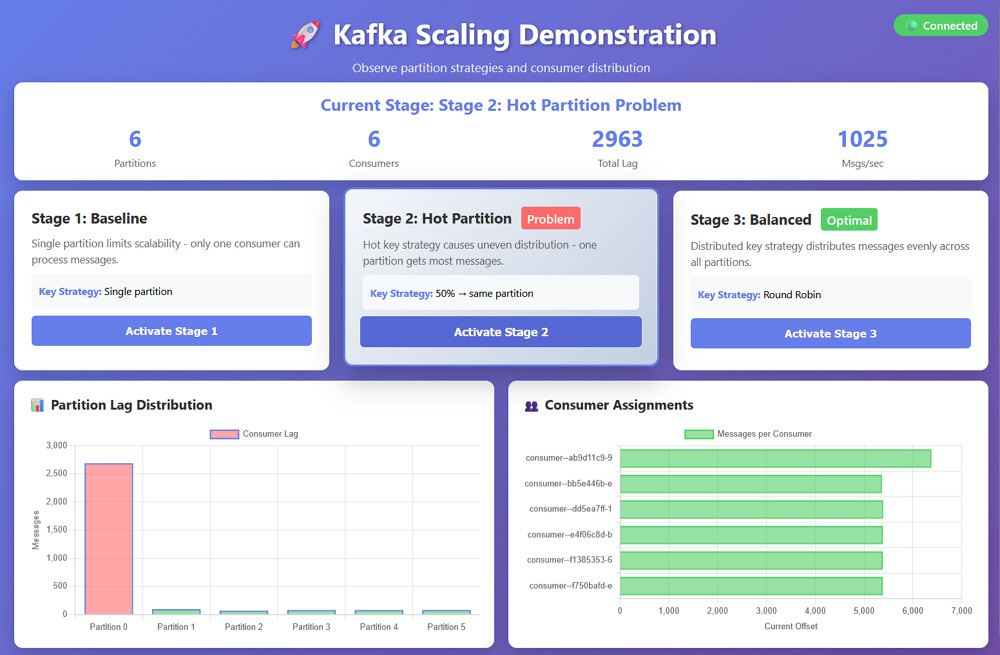
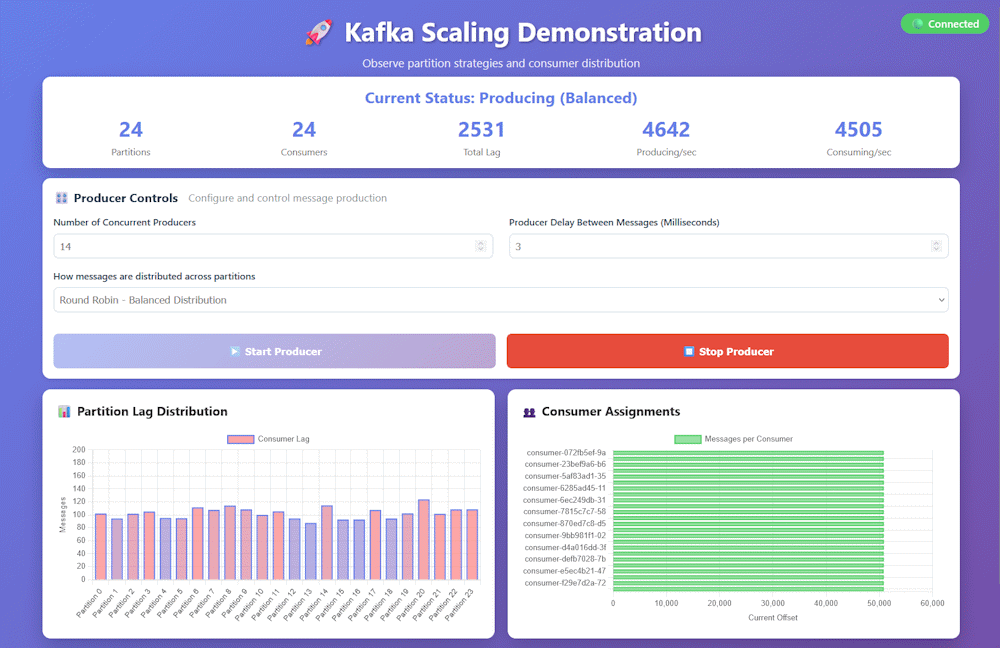
Cleanup kafka.css, update md files, new screenshot.

diff --git a/dashboard-service/public/css/kafka.css b/dashboard-service/public/css/kafka.css
@@ -1,3 +1,4 @@
+/* Reset & Base Styles */
 * {
     margin: 0;
     padding: 0;
@@ -54,113 +55,6 @@ h1 {
     color: white;
 }
 
-.stage-controls {
-    display: grid;
-    grid-template-columns: repeat(auto-fit, minmax(300px, 1fr));
-    gap: 20px;
-    margin-bottom: 15px;
-}
-
-.stage-card {
-    background: white;
-    border-radius: 12px;
-    padding: 25px;
-    box-shadow: 0 10px 30px rgba(0,0,0,0.2);
-    transition: transform 0.2s, box-shadow 0.2s;
-}
-
-.stage-card:hover {
-    transform: translateY(-5px);
-    box-shadow: 0 15px 40px rgba(0,0,0,0.3);
-}
-
-.stage-card.active {
-    border: 3px solid #667eea;
-    background: linear-gradient(135deg, #f5f7fa 0%, #c3cfe2 100%);
-}
-
-.stage-card h3 {
-    color: #333;
-    margin-bottom: 10px;
-    font-size: 1.3em;
-}
-
-.stage-description {
-    color: #666;
-    margin-bottom: 10px;
-    font-size: 0.95em;
-    line-height: 1.5;
-}
-
-.stage-details {
-    background: #f8f9fa;
-    padding: 10px;
-    border-radius: 6px;
-    margin-bottom: 10px;
-    font-size: 0.9em;
-}
-
-.stage-details div {
-    margin: 5px 0;
-}
-
-.stage-details strong {
-    color: #667eea;
-}
-
-button {
-    background: #667eea;
-    color: white;
-    border: none;
-    padding: 12px 24px;
-    border-radius: 6px;
-    cursor: pointer;
-    font-size: 1em;
-    font-weight: 600;
-    transition: background 0.3s, transform 0.1s;
-    width: 100%;
-}
-
-button:hover {
-    background: #5568d3;
-    transform: scale(1.02);
-}
-
-button:active {
-    transform: scale(0.98);
-}
-
-button:disabled {
-    background: #ccc;
-    cursor: not-allowed;
-    transform: none;
-}
-
-.metrics-grid {
-    display: grid;
-    grid-template-columns: repeat(auto-fit, minmax(400px, 1fr));
-    gap: 20px;
-    margin-bottom: 20px;
-}
-
-.metric-card {
-    background: white;
-    border-radius: 12px;
-    padding: 20px;
-    box-shadow: 0 10px 30px rgba(0,0,0,0.2);
-}
-
-.metric-card h3 {
-    color: #333;
-    margin-bottom: 15px;
-    font-size: 1.2em;
-}
-
-.chart-container {
-    position: relative;
-    height: 300px;
-}
-
 .status-banner {
     background: white;
     border-radius: 12px;
@@ -197,54 +91,6 @@ button:disabled {
     color: #666;
     font-size: 0.9em;
     margin-top: 5px;
-}
-
-.badge {
-    display: inline-block;
-    padding: 4px 8px;
-    border-radius: 4px;
-    font-size: 0.85em;
-    font-weight: 600;
-    margin-left: 8px;
-}
-
-.badge-hot {
-    background: #ff6b6b;
-    color: white;
-}
-
-.badge-balanced {
-    background: #51cf66;
-    color: white;
-}
-
-.logs-container {
-    background: #1e1e1e;
-    border-radius: 12px;
-    padding: 15px;
-    box-shadow: 0 10px 30px rgba(0,0,0,0.2);
-    max-height: 300px;
-    overflow-y: auto;
-}
-
-.log-entry {
-    color: #d4d4d4;
-    font-family: 'Courier New', monospace;
-    font-size: 0.9em;
-    margin: 5px 0;
-    padding: 5px;
-    border-left: 3px solid #667eea;
-    padding-left: 10px;
-}
-
-.log-entry.warning {
-    border-left-color: #ffa500;
-    color: #ffa500;
-}
-
-.log-entry.success {
-    border-left-color: #51cf66;
-    color: #51cf66;
 }
 
 .producer-controls {
@@ -383,6 +229,65 @@ button:disabled {
     background: #f8d7da;
     color: #721c24;
     border: 1px solid #f5c6cb;
+}
+
+.metrics-grid {
+    display: grid;
+    grid-template-columns: repeat(auto-fit, minmax(400px, 1fr));
+    gap: 20px;
+    margin-bottom: 20px;
+}
+
+.metric-card {
+    background: white;
+    border-radius: 12px;
+    padding: 20px;
+    box-shadow: 0 10px 30px rgba(0,0,0,0.2);
+}
+
+.metric-card h3 {
+    color: #333;
+    margin-bottom: 15px;
+    font-size: 1.2em;
+}
+
+.chart-container {
+    position: relative;
+    height: 300px;
+}
+
+.logs-container {
+    background: #1e1e1e;
+    border-radius: 12px;
+    padding: 15px;
+    box-shadow: 0 10px 30px rgba(0,0,0,0.2);
+    max-height: 300px;
+    overflow-y: auto;
+}
+
+.log-entry {
+    color: #d4d4d4;
+    font-family: 'Courier New', monospace;
+    font-size: 0.9em;
+    margin: 5px 0;
+    padding: 5px;
+    border-left: 3px solid #667eea;
+    padding-left: 10px;
+}
+
+.log-entry.info {
+    border-left-color: #667eea;
+    color: #667eea;
+}
+
+.log-entry.warning {
+    border-left-color: #ffa500;
+    color: #ffa500;
+}
+
+.log-entry.success {
+    border-left-color: #51cf66;
+    color: #51cf66;
 }
 
 @media (max-width: 768px) {

diff --git a/dashboard-service/server.js b/dashboard-service/server.js
@@ -170,7 +170,7 @@ async function collectMetrics() {
 // Calculate message rates based on offset changes with smoothing
 let previousOffsets = {};
 let rateHistory = { producer: [], consumer: [] };
-const RATE_HISTORY_SIZE = 5; // Number of samples to average
+const RATE_HISTORY_SIZE = 15; // Number of samples to average
 
 function calculateMessageRates(partitions) {
     const currentTime = Date.now();

diff --git a/dashboard-service/public/index.html b/dashboard-service/public/index.html
@@ -357,6 +357,7 @@
             const statusEl = document.getElementById('producerStatus');
             statusEl.textContent = message;
             statusEl.className = `status-message ${type}`;
+			statusEl.style.display = '';
             
             // Auto-hide after 5 seconds
             setTimeout(() => {

diff --git a/README.md b/README.md
@@ -18,7 +18,6 @@ Also includes standard kafka monitor @ http://localhost:8080
 To change settings, stop the containers (**docker compose down -v**) then edit these settings in docker-compose.yml:
 
 ### Producer
-- **MILLISECONDS_BETWEEN_MESSAGES**: Controls the delay between messages, defaults to 1
 - **NUMBER_OF_PARTITIONS**: How many partitions to use for the topic, defaults to 6
 
 ### Consumer
@@ -27,31 +26,36 @@ To change settings, stop the containers (**docker compose down -v**) then edit t
 
 ## How It Works:
 
-- Click Stage Button → Dashboard calls producer/api/run-stage-X
+- Click Start Producer Button → Dashboard calls producer/api/produce-messages
 - Producer generates messages into the topic
 - Consumers read messages → Simulate doing work
-- Dashboard server monitors metrics → Polls Kafka every 400 ms
+- Dashboard server monitors metrics → Polls Kafka every 300 ms
 - Dashboard server Streams to UI → Via WebSocket, charts update in real-time
 
 ## Prerequisites
 
 - Docker & Docker Compose
 - Java 21+ (for local development)
-- Maven (for building JARs)
+- Maven (for local development)
 
-## Demo Stages
+### Test Scenarios To Try:
+What's your high score? Try some of the suggestions in Kafka-Performance-Tuning.md
 
-### Stage 1: Single Partition (Limited Scalability)
-- Demonstrates basic operation with single consumer
-- Topic with 1 overloaded partition
-- 1 consumer actively consuming starts to fall behind
+```bash
+# Scenario 1: High producer rate
+producerCount: 14
+msBetweenMessages: 3
+partitionStrategy: ROUND_ROBIN
+partitions:24
+replicas: 12
 
-### Stage 2: Hot Consumer
-- Demonstrates poor key strategy that causes uneven distribution among partitions
-- Partitions divide messages 50% into one partition, rest are split between remaining partitions
-- One partition starts to become overloaded
+# Scenario 2: Sustained load
+producerCount: 1
+msBetweenMessages: 1
+partitionStrategy: ROUND_ROBIN
 
-### Stage 3: Consumer Group Balanced
-- Demonstrates balanced key strategy that evenly distributes the messages across all partitions
-- Partitions dividing messages evenly with round-robin strategy.
-- Even lag across partitions
+# Scenario 3: Hot partition problem
+producerCount: 2
+msBetweenMessages: 1
+partitionStrategy: HOT_PARTITION
+```

diff --git a/Kafka-Performance-Tuning.md b/Kafka-Performance-Tuning.md
@@ -225,15 +225,14 @@ environment:
 ### Test Scenarios:
 ```bash
 # Scenario 1: High producer rate
-producerCount: 10
+producerCount: 5
 msBetweenMessages: 1
 partitionStrategy: ROUND_ROBIN
 
 # Scenario 2: Sustained load
-producerCount: 5
+producerCount: 1
 msBetweenMessages: 1
 partitionStrategy: ROUND_ROBIN
-Duration: 5 minutes
 
 # Scenario 3: Hot partition problem
 producerCount: 5
